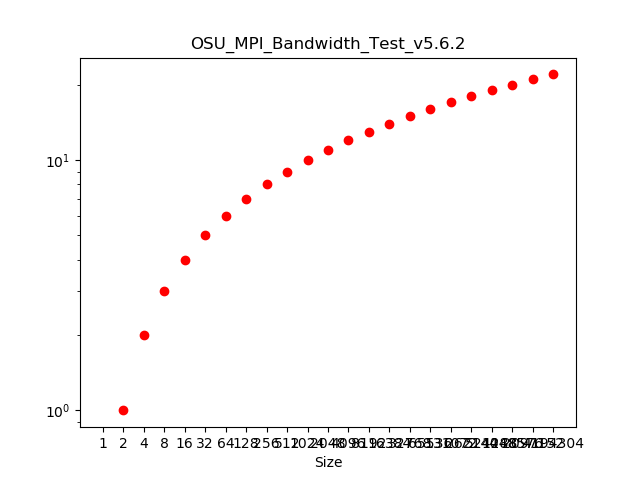
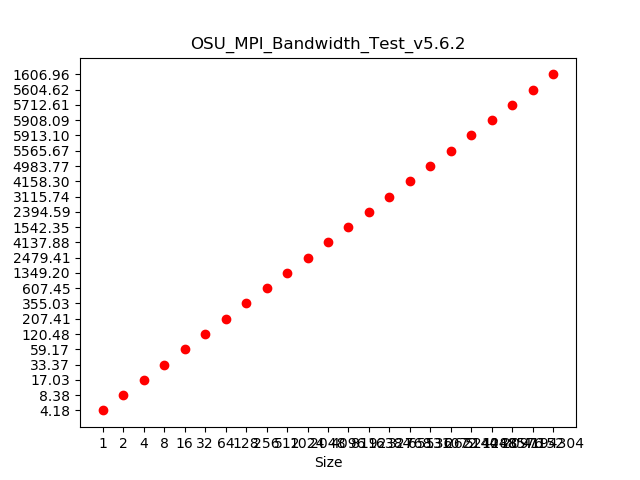
new image

diff --git a/proseminar/01/python/plot.py b/proseminar/01/python/plot.py
@@ -32,6 +32,6 @@ plt.plot(x,y, 'ro')
 plt.ylabel(yLabel)
 plt.xlabel(xLabel)
 plt.title(title)
-plt.yscale('log')
+#plt.yscale('log')
 #plt.show()
 plt.savefig(title + ".png")

diff --git a/proseminar/01/ex2.md b/proseminar/01/ex2.md
@@ -13,7 +13,8 @@ Group members: **Patrick Lanzinger, Raphael Gruber**
 ![Image](images/OSU_MPI_Bandwidth_Test_v5.6.2.png) 
 ![Image](images/OSU_MPI_Latency_Test_v5.6.2.png) 
 
-We can see that in both plots that the test results convert to a certain value
+The bandwith is linear and the latency states same until 8 size then growth linear as well
+
 
 ## Modify your experiment such that the 2 MPI ranks are placed on
 
